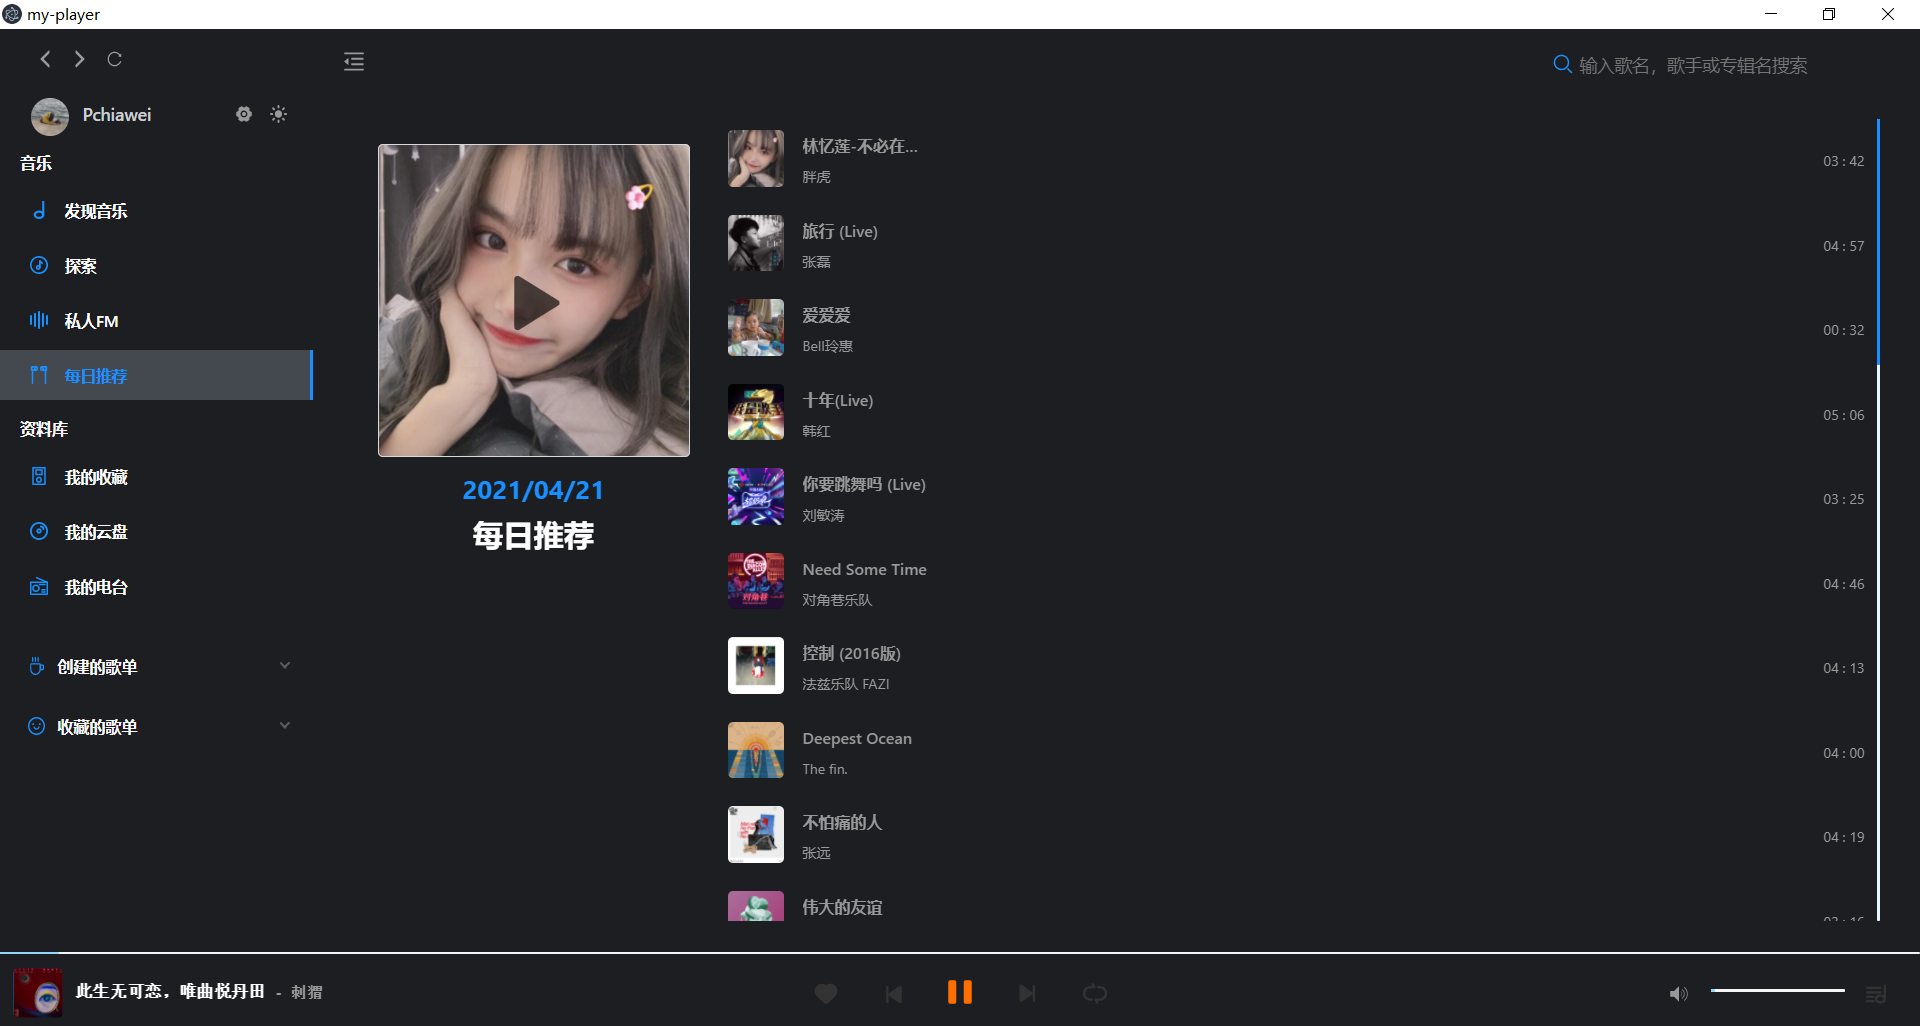
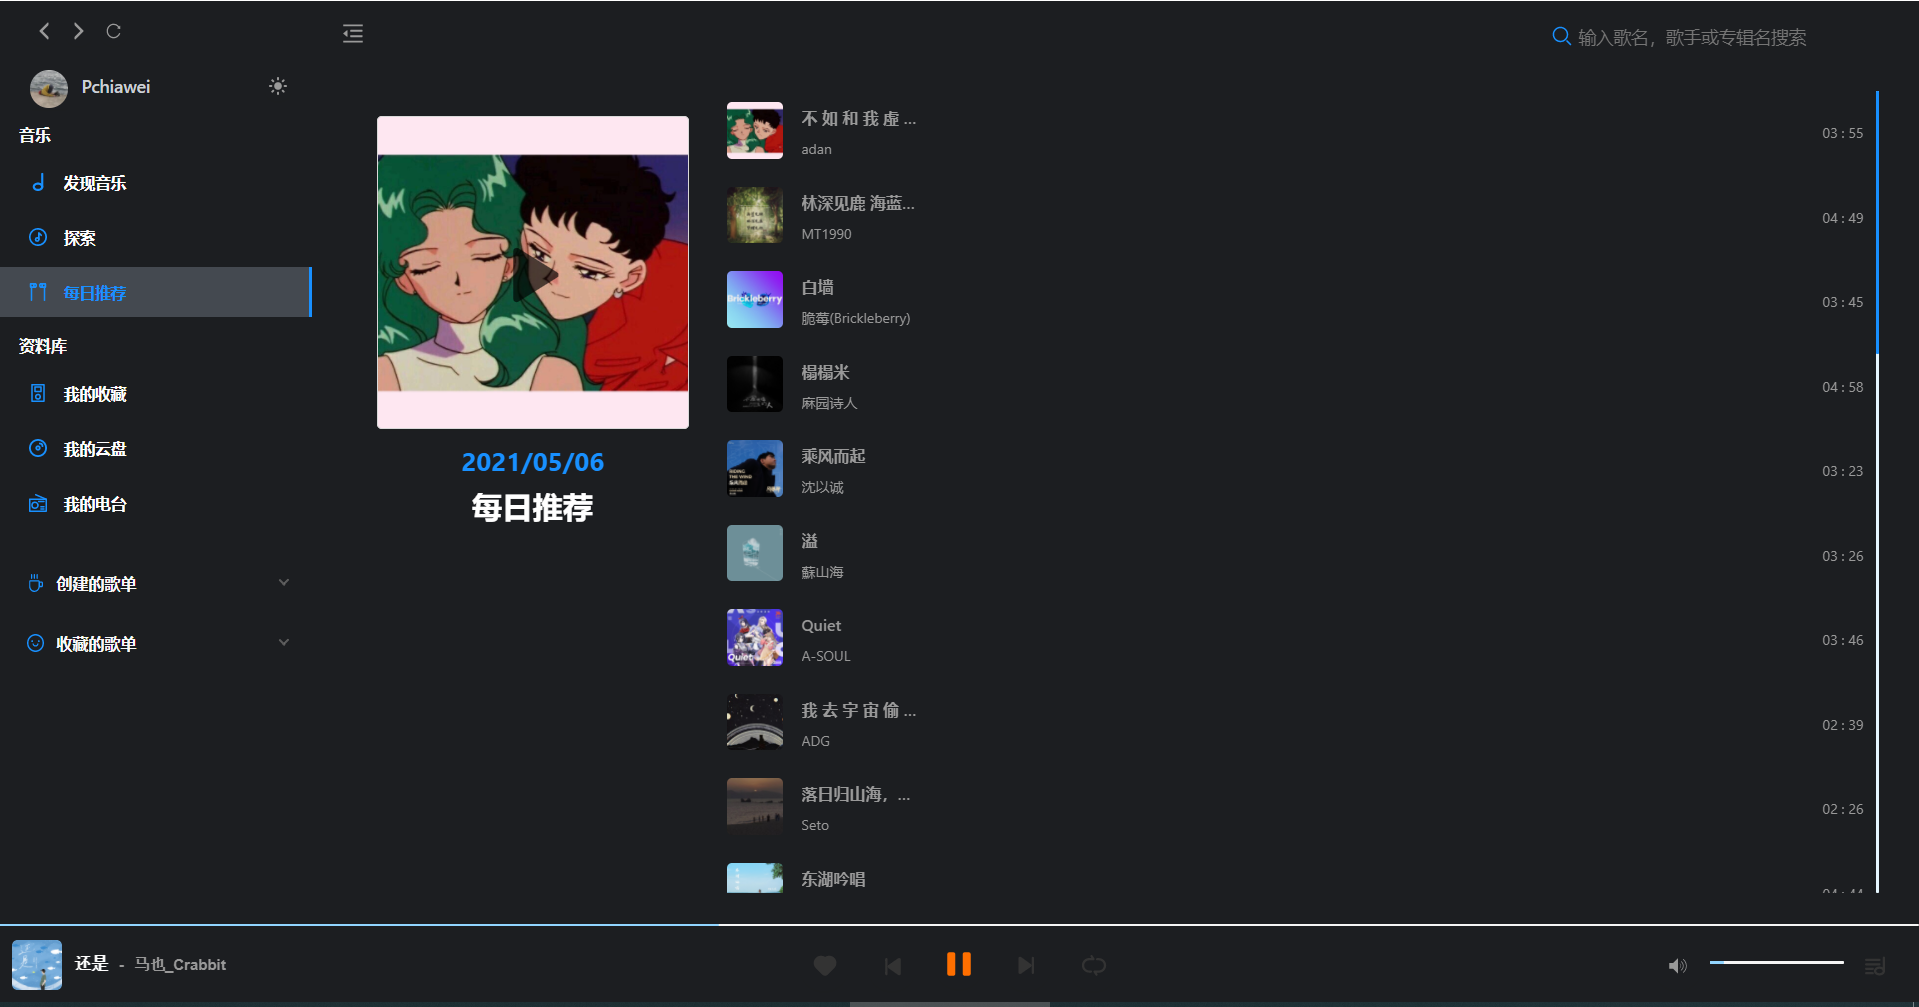
改图标

diff --git a/src/renderer/components/drawer/Drawer.vue b/src/renderer/components/drawer/Drawer.vue
@@ -136,6 +136,11 @@
                 {{ item.sentence }}
               </li>
             </ul>
+
+            <ul v-else>
+              <li>这是一首纯音乐</li>
+              <li>请用心聆听</li>
+            </ul>
           </div>
         </div>
       </div>
@@ -181,8 +186,11 @@ export default {
       ][this.mode];
     },
     lyric() {
+      if(this.track.lyric.nolyric){
+        console.log('this is nolyric')
+        return false
+      }
       const { tlyric, lrc } = this.track.lyric;
-      // console.log(formatLyric(lrc.lyric))
       let lyric = lrc.lyric ? formatLyric(lrc.lyric) : [];
       let _tlyric = tlyric.lyric ? formatLyric(tlyric.lyric) : [];
       if (_tlyric.length) {
@@ -260,12 +268,15 @@ export default {
     caculate() {
       const current = this.currentTime;
       const prevActiveIdx = this.activeIdx;
+      // 找到当前播放的歌词句
       const activeIdx = findIndex(this.lyric, (o, idx) => {
         const next = this.lyric[idx + 1];
+        // 定时器每500ms执行，找满足 播放时间crt<下一句出现时间时间，并大于当前该句的出现时间
+        // o.time 为当前句的出现时间
         return (next ? current < next.time : true) && current >= o.time;
       });
       this.activeIdx = activeIdx;
-      // 当前歌词渲染后计算出滚动位置
+      // 当前歌词渲染后计算出滚动位置，添加高亮样式并滚动父元素
       this.$nextTick(async () => {
         if (activeIdx >= 0 && prevActiveIdx !== activeIdx) {
           const container = this.$refs.lyricContainer;

diff --git a/src/renderer/components/layout/Navbar.vue b/src/renderer/components/layout/Navbar.vue
@@ -32,9 +32,9 @@
         <default-account :collapsed="collapsed"></default-account>
 
         <div class="setting">
-          <a-button shape="circle" size="small" title="setting">
+          <!-- <a-button shape="circle" size="small" title="setting">
             <my-icon type="icon-setting-Fill"  :style="`${nightMode ? 'color:#999' : 'color:#333'}`"></my-icon>
-          </a-button>
+          </a-button> -->
 
           <a-button
             shape="circle"
@@ -131,7 +131,7 @@ export default {
           to: "/explore",
           icon: "icon-song-circle",
         },
-        { name: "私人FM", val: "fm", to: "/fm", icon: "icon-music-node" },
+        // { name: "私人FM", val: "fm", to: "/fm", icon: "icon-music-node" },
         {
           name: "每日推荐",
           val: "daily",

diff --git a/src/renderer/view/Discover.vue b/src/renderer/view/Discover.vue
@@ -15,7 +15,7 @@
                 <div class="btn-area">
                   <a-button class="btn-play" shape="round" @click="clickNewRelease(release)">
                     <my-icon type="icon-bofang"></my-icon>
-                    NOW PLAYING</a-button
+                    立即播放</a-button
                   >
                   <a-button class="btn-like" shape="circle" @click="clickLikeNew(release)"
                     >
@@ -163,7 +163,7 @@ export default {
               }
             }
             .btn-play {
-              padding-right: 10px;
+              padding-right: 15px;
               .anticon {
                 margin-left: 5px;
                 line-height: 0;

diff --git a/src/main/index.js b/src/main/index.js
@@ -22,6 +22,8 @@ function createWindow () {
    * Initial window options
    */
   mainWindow = new BrowserWindow({
+    // 更改软件icon图标
+    icon:require('path').join(__dirname, 'icon.ico'),
     height: 563,
     useContentSize: true,
     width: 1000

diff --git a/src/renderer/components/login/index.vue b/src/renderer/components/login/index.vue
@@ -20,7 +20,7 @@
 
     <div class="btn-area">
       <a-button type="primary" :loading="loading" @click="login"
-        >Login</a-button
+        >登录</a-button
       >
     </div>
   </a-modal>

diff --git a/src/renderer/components/default/VideoCover.vue b/src/renderer/components/default/VideoCover.vue
@@ -57,6 +57,7 @@ export default {
 .video-info {
   font-size: 0.78rem;
   font-weight: 600;
+  color: var(--color-gray-950);
   .video-title {
     @include box-title;
   }
